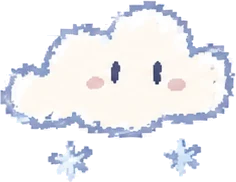
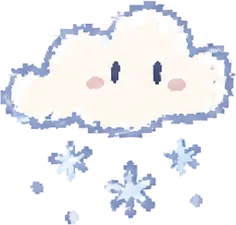
日记：翻开铺满屏幕、日记写长一点、邮票照片放进框里、天气图标重抠（v0.8.95）
Claude-Session: https://claude.ai/code/session_01W7dSssvQi6zYHde5aBuaY9

Changed region(s): [[0.0, 0.0, 1.0, 1.0], [0.3559, 0.2473, 0.5339, 0.4945], [0.8898, 0.3571, 0.9195, 0.3846]]

diff --git a/phone/apps/diary/diary.css b/phone/apps/diary/diary.css
@@ -17,8 +17,9 @@
 .as-dy-table { position: absolute; inset: 0; perspective: 1100px; perspective-origin: 50% 30%; }
 .as-dy-vol { position: absolute; left: 50%; top: 50%; width: var(--w, 340px); height: calc(var(--w, 340px) / .734); perspective: 2000px;
   transform: translate(-50%, -50%) translate(calc(var(--W, 400px) * var(--dx, 0) / 100), calc(var(--H, 700px) * var(--dy, 0) / 100)) rotateX(52deg) rotateZ(var(--rz, 0deg)) scale(.52);
-  transition: transform 1s cubic-bezier(.32, .72, .2, 1), opacity .45s; cursor: pointer; -webkit-tap-highlight-color: transparent; }
-.as-dy-vol.is-open { transform: translate(-50%, -50%); z-index: 20 !important; cursor: auto; }
+  transition: transform 1s cubic-bezier(.32, .72, .2, 1), width 1s cubic-bezier(.32, .72, .2, 1), height 1s cubic-bezier(.32, .72, .2, 1), opacity .45s; cursor: pointer; -webkit-tap-highlight-color: transparent; }
+/* 翻开后铺满（顶栏下面整块），字多就在页里上下滑 */
+.as-dy-vol.is-open { transform: translate(-50%, -50%); width: calc(var(--W, 400px) - 10px); height: calc(var(--H, 700px) - 8px); z-index: 20 !important; cursor: auto; }
 .as-dy-table.is-reading .as-dy-vol:not(.is-open) { opacity: 0; pointer-events: none; }
 /* 一页（封面也是一页）：绕书脊（左边）翻，正面背面各一张 */
 .as-dy-sheet { position: absolute; inset: 0; transform-origin: left center; transform-style: preserve-3d; transition: transform .75s cubic-bezier(.3, .7, .2, 1); }
@@ -28,7 +29,7 @@
 .as-dy-face { position: absolute; inset: 0; backface-visibility: hidden; -webkit-backface-visibility: hidden; }
 .as-dy-face.is-back { transform: rotateY(180deg); background: #f4f1ec url(../../assets/diary/paper-plain.webp) 0 0 / 100% auto; border-radius: 10px 4px 4px 10px; box-shadow: inset -10px 0 14px -10px rgba(80,70,60,.25); }
 .as-dy-sheet.is-cover > .as-dy-face:first-child { filter: drop-shadow(0 18px 18px rgba(40,40,60,.32)); }
-.as-dy-sheet.is-cover img { width: 100%; height: 100%; object-fit: fill; display: block; }
+.as-dy-sheet.is-cover img { width: 100%; height: 100%; object-fit: cover; display: block; }
 .as-dy-plate { position: absolute; left: 50%; bottom: 16%; translate: -50%; max-width: 70%; padding: 4px 14px; border-radius: 4px; background: rgba(255,253,248,.92); box-shadow: 0 1px 3px rgba(0,0,0,.15);
   color: #5a4650; font: 15px/1.4 "LXGW WenKai", "Kaiti SC", STKaiti, serif; white-space: nowrap; overflow: hidden; text-overflow: ellipsis; }
 .as-dy-pages { position: absolute; inset: 1.5% 2.5% 1.5% 1%; }
@@ -75,7 +76,7 @@
 .as-dy-photo__frame { position: relative; display: block; width: 100%; pointer-events: none; }
 /* 拍立得里那个窗（透明的，照片垫在后面）、邮票里那块纸（不透明，照片盖在上面）：抠图量出来的位置 */
 .as-dy-photo__img, .as-dy-photo__none { position: absolute; left: 10.5%; top: 15.3%; width: 78.6%; height: 63%; box-sizing: border-box; }
-.as-dy-photo.is-stamp .as-dy-photo__img, .as-dy-photo.is-stamp .as-dy-photo__none { inset: 13%; width: auto; height: auto; z-index: 1; }
+.as-dy-photo.is-stamp .as-dy-photo__img, .as-dy-photo.is-stamp .as-dy-photo__none { left: 13%; top: 13%; width: 74%; height: 74%; z-index: 1; }
 .as-dy-photo__img { object-fit: cover; display: block; }
 .as-dy-photo__none { display: grid; align-content: center; gap: 6px; justify-items: center; padding: 10px; overflow: hidden; background: #f3eee6; color: #6d6168; font-size: 13px; line-height: 1.5; text-align: center; }
 .as-dy-photo__none p { margin: 0; }

diff --git a/phone/core/prompts.js b/phone/core/prompts.js
@@ -356,7 +356,7 @@ export const DEFAULT_PROMPTS = {
 
 【现在】{{time}}
 
-日记是 {{char}} 自己写给自己看的：第一人称「我」，用 TA 的口吻和性格；写今天发生的事和当时没说出口的心情，提到 {{user}} 就直接写名字或 TA 平时怎么叫。100～300 字，像真人写日记，不要写成小说，不要旁白。
+日记是 {{char}} 自己写给自己看的：第一人称「我」，用 TA 的口吻和性格；写今天发生的事和当时没说出口的心情，提到 {{user}} 就直接写名字或 TA 平时怎么叫。300～600 字，像真人写日记：写清楚今天发生了什么、自己怎么想的、哪句话哪个画面一直记着；不要写成小说，不要旁白。
 只写真发生过的事，不编造没发生的。
 格式：
 天气：晴 / 晴转多云 / 多云 / 阴 / 小雨 / 雨 / 太阳雨 / 夜雨 / 雷雨 / 雪 / 雾 / 风 / 台风 / 彩虹 / 夜晚 / 夜晚多云，挑一个
@@ -366,7 +366,7 @@ export const DEFAULT_PROMPTS = {
 主题色：从这些颜色里挑一个最合这篇心情和剧情氛围的，只写名字：{{palettes}}` },
   diaryEvery: { name: '跟着剧情写', cats: ['diaryEvery'], on: true, main: true,
     text: `这些人在记日记：{{people}}。这一楼在回复最后另起一行，用 <asterdiary from="名字">……</asterdiary> 替 TA 们各写一篇这一楼的日记，一个人一个标签；TA 不在场就写 TA 此刻在做什么、在想什么。
-日记是 TA 自己写给自己看的：第一人称「我」，用 TA 的口吻和性格；写今天发生的事和当时没说出口的心情，提到 {{user}} 就直接写名字或 TA 平时怎么叫。100～300 字，像真人写日记，不要写成小说，不要旁白。
+日记是 TA 自己写给自己看的：第一人称「我」，用 TA 的口吻和性格；写今天发生的事和当时没说出口的心情，提到 {{user}} 就直接写名字或 TA 平时怎么叫。300～600 字，像真人写日记：写清楚今天发生了什么、自己怎么想的、哪句话哪个画面一直记着；不要写成小说，不要旁白。
 格式：
 天气：晴 / 晴转多云 / 多云 / 阴 / 小雨 / 雨 / 太阳雨 / 夜雨 / 雷雨 / 雪 / 雾 / 风 / 台风 / 彩虹 / 夜晚 / 夜晚多云，挑一个
 日记正文

diff --git a/phone/core/diary.js b/phone/core/diary.js
@@ -71,7 +71,7 @@ export async function write(c, { events = [], floors = null, photos = [] }, stop
   }
   const scan = floors || events.length ? about : story;
   const w = await worldText(scan).catch(() => ''), mem = await memoryFor([c], scan).catch(() => '');
-  const raw = await generate({ conn: resolveConn('text', 'diary'), system: '', app: '日记', maxTokens: 900, stop,
+  const raw = await generate({ conn: resolveConn('text', 'diary'), system: '', app: '日记', maxTokens: 1600, stop,
     prompt: compose('diaryWrite', { palettes: themeNames(), char: name, persona: (ctxCfg().charPersona && personaOf(c)) || '（没有更多资料）', world: (w ? `\n【世界书】\n${w}\n` : '') + mem, about, time: time.forPrompt() }) });
   const body = String(raw).replace(/<think(?:ing)?>[\s\S]*?<\/think(?:ing)?>/gi, '').trim();
   if (!body) throw new Error('AI 回了空的');

diff --git a/phone/apps/settings/settings.js b/phone/apps/settings/settings.js
@@ -12,7 +12,7 @@ import * as walls from '../../core/walls.js';
 import { importClockFont, removeClockFont, userFonts, fontKey, fontName } from '../../core/fonts.js';
 import { THEMES, lib } from '../../core/skin.js';
 
-export const VERSION = '0.8.94';
+export const VERSION = '0.8.95';
 export const FABS = [['forest', '森林小芽'], ['candy', '糖果'], ['ocean', '海洋'], ['sunflower', '向日葵'], ['neon', '霓虹'], ['iphone', 'iPhone'],
   ['ancient', '古风'], ['xianxia', '仙侠'], ['magic', '魔法'], ['steampunk', '蒸汽朋克'], ['retro', '复古游戏机'], ['autumn', '秋日']];
 const MODE_LABEL = { day: '日间', night: '夜间', auto: '跟随系统' };

diff --git a/docs/pages-diary.md b/docs/pages-diary.md
@@ -4,7 +4,7 @@
 
 ## 一、是什么
 - **角色的日记**：用 TA 自己的口吻、第一人称写。一个角色一本，躺在书桌上（白天 / 夜里跟着手机的深色模式换桌子，只靠 CSS 跟着变；桌子用原图，靠左上对齐，窗户不裁掉）。
-- **翻开**（2026-11-05 作者要的，参考 sasshi 的书桌）：点一本 → 它从桌上立起来、封面绕书脊翻开 → 停在最新一篇；往左拖翻下一页，往右拖翻回上一页（拖过一小半就翻过去）；左上角返回 = 合上，书躺回桌上。手机上一次看一页，不做对开两页（太小看不清）。名字写在封面的小标签上。
+- **翻开**（2026-11-05 作者要的，参考 sasshi 的书桌）：点一本 → 它从桌上立起来、封面绕书脊翻开 → 停在最新一篇；往左拖翻下一页，往右拖翻回上一页（拖过一小半就翻过去）；左上角返回 = 合上，书躺回桌上。手机上一次看一页，不做对开两页（太小看不清）；翻开后铺满整个手机，字多就上下滑。日记一篇 300～600 字。名字写在封面的小标签上。
 - 本子：8 种封面、3 种纸（横线 / 点点 / 白纸）、什么时候写，都在本子的设置里，随时能换；能删（里面的日记一起删）。
 
 ## 二、什么时候写（每本单独选）

diff --git a/docs/pages-music.md b/docs/pages-music.md
@@ -363,6 +363,7 @@
 - v0.8.92：日记重做书桌：本子躺在桌上，点开立起来、封面翻开，拖着翻页，返回就合上；桌子用原图、跟着深色模式自动换（之前进页面时判断错，退出来才变）；名字改写在封面标签上（之前的粉色胶带名牌像第二本书）；手动写完不再自动生图。
 - v0.8.93：日记：作者手机上书在桌上是立着的、封面翻不开（我这边复现不出来）。改成按桌子宽高算 px 定大小位置（不用容器单位）；封面先翻开、不等页面数据；翻开失败会进日志。
 - v0.8.94：日记翻不开的真正原因：换色贴纸的遮罩地址用 location.href 拼，手机页在两边酒馆里都是 srcdoc（location.href 是 about:srcdoc）→ 报 Invalid URL，整页画不出来。改成按 document.baseURI 拼。以后测试要放进 srcdoc 里测。
+- v0.8.95 日记：翻开后铺满整个手机、字多了上下滑；日记写长一点（300～600 字）；邮票排版里的照片放进邮票框里；天气图标重新抠（太阳的光芒不再缺）
 - 还没做：悬浮窗逐字变色、桌面歌词、八音盒 / 热成像皮肤、朗读插件那边的几行。
 
 ## 八·五、电台（哄睡故事，2026-11-02 定了样子，还没开工）

diff --git a/README.md b/README.md
@@ -1,6 +1,6 @@
 # AsterPhone ✦
 
-SillyTavern 小手机插件（v0.8.94 预览版）。
+SillyTavern 小手机插件（v0.8.95 预览版）。
 
 ## 安装到酒馆
 酒馆 → 扩展 → 安装扩展 → 粘贴 `https://github.com/xxuxin0705/AsterPhone` → 安装。
